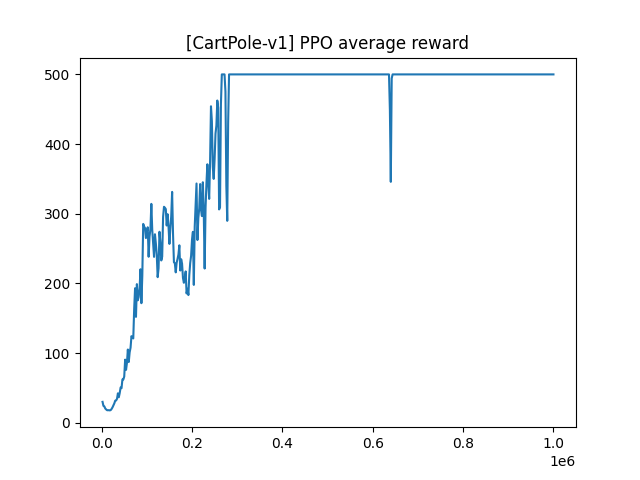
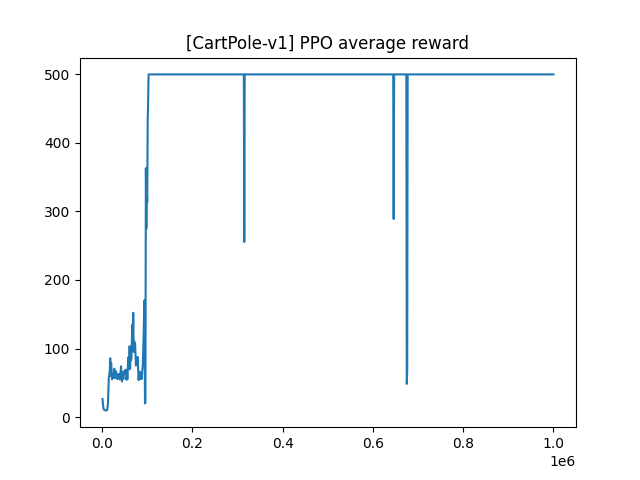
add clip loss

diff --git a/algos/discrete_ppo.py b/algos/discrete_ppo.py
@@ -34,15 +34,15 @@ ENV_CONFIG = {
         "critic_model": Critic,
         "critic_params": [(30, 15)],
         "hyperparams": Hyperparams(
-            num_updates=500,
-            batch_count=25,
-            rollout_len=2000,
+            num_updates=1000,
+            batch_count=50,
+            rollout_len=1000,
             discount_rate=0.99,
             num_minibatches=4,
-            update_epochs=4,
-            actor_learning_rate=0.00025,
+            update_epochs=6,
+            actor_learning_rate=0.002,
             actor_clip=0.2,
-            critic_learning_rate=0.004,
+            critic_learning_rate=0.002,
             adam_eps=1e-5,
         ),
     },
@@ -55,7 +55,7 @@ class Transition:
     action: jnp.ndarray
     reward: jnp.ndarray
     done: jnp.ndarray
-    #log_prob: jnp.ndarray
+    log_prob: jnp.ndarray
 
 def run_rollout(env, env_params, length, actor_state, rng_key):
     """Collects an actor policy rollout with a fixed number of steps."""
@@ -69,13 +69,14 @@ def run_rollout(env, env_params, length, actor_state, rng_key):
         rng_key, action_key, step_key = jax.random.split(rng_key, 3)
         action_dist = actor_state.apply_fn(actor_state.params, observation)
         action = action_dist.sample(seed=action_key)
+        log_prob = action_dist.log_prob(action)
 
         # Run environment step
         next_observation, next_state, reward, done, i = env.step(
             step_key, env_state, action, env_params,
         )
         transition = Transition(
-            observation, action, reward, done,
+            observation, action, reward, done, log_prob,
         )
 
         next_step = (actor_state, next_state, next_observation, rng_key)
@@ -111,13 +112,20 @@ def calc_values(critic_state, transitions, last_observation, discount_rate):
 
     return (advantages, targets)
 
-def update_actor(actor_state, transitions, advantages):
+def update_actor(actor_state, transitions, advantages, clip):
     """Calculates and applies the PPO gradient estimator at each time step."""
     def ppo_loss(params, transitions, advantages):
-        """Calculates the advantage estimator on a batch of transitions."""
+        """Calculates the clipped advantage estimator on a batch of transitions."""
         action_dists = jax.vmap(actor_state.apply_fn, in_axes=(None, 0))(params, transitions.observation)
         log_probs = action_dists.log_prob(transitions.action)
-        return -jnp.mean(advantages * log_probs)
+        prob_ratios = jnp.exp(log_probs - transitions.log_prob)
+
+        advantage_losses = prob_ratios * advantages
+        clipped_ratios = jnp.clip(prob_ratios, 1 - clip, 1 + clip)
+        clipped_losses = clipped_ratios * advantages
+
+        ppo_losses = jnp.minimum(advantage_losses, clipped_losses)
+        return -jnp.mean(ppo_losses)
 
     advantage_grad = jax.value_and_grad(ppo_loss)
     loss, grads = advantage_grad(actor_state.params, transitions, advantages)
@@ -176,7 +184,7 @@ def run_update(env, env_params, actor_state, critic_state, rng_key, hyperparams)
     def update_minibatch(train_state, batch_info):
         actor_state, critic_state = train_state
         transitions, advantages, targets = batch_info
-        actor_state, actor_loss = update_actor(actor_state, transitions, advantages)
+        actor_state, actor_loss = update_actor(actor_state, transitions, advantages, hyperparams.actor_clip)
         critic_state, critic_loss = update_critic(critic_state, transitions, targets)
         return ((actor_state, critic_state), (actor_loss, critic_loss))
 
